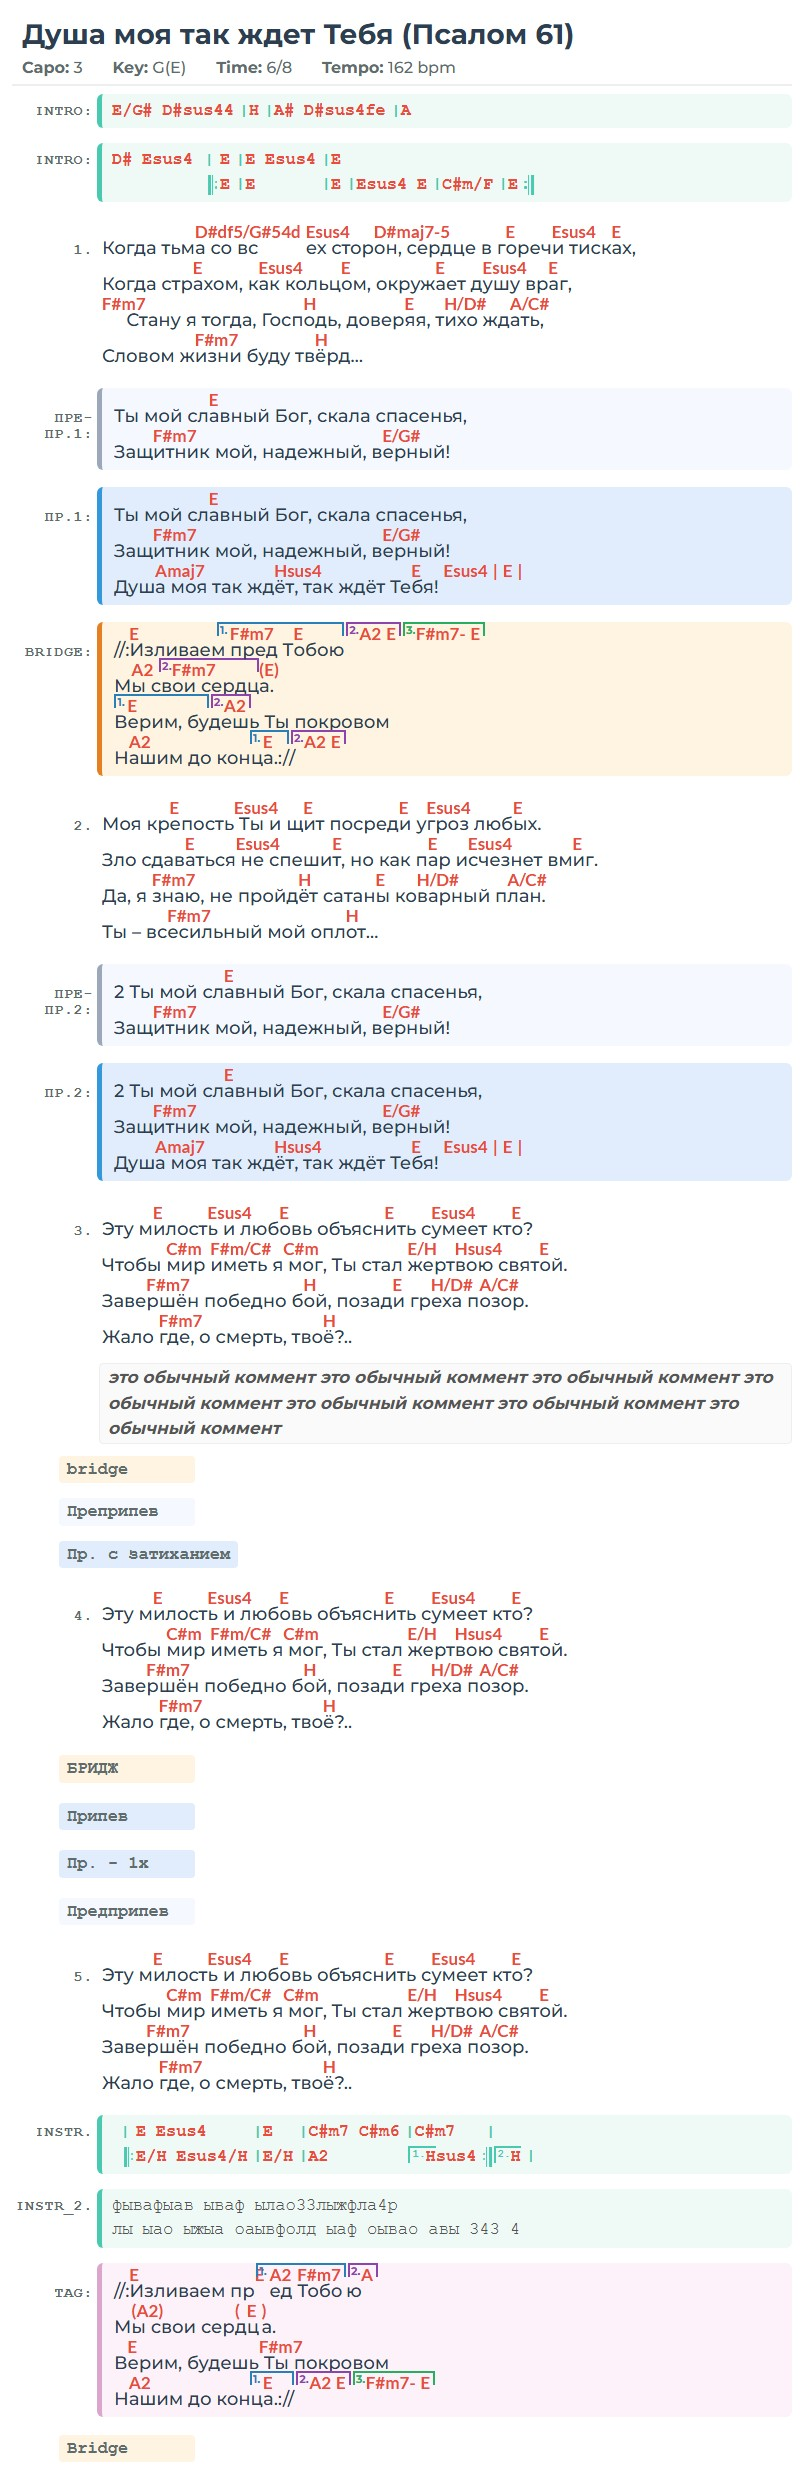
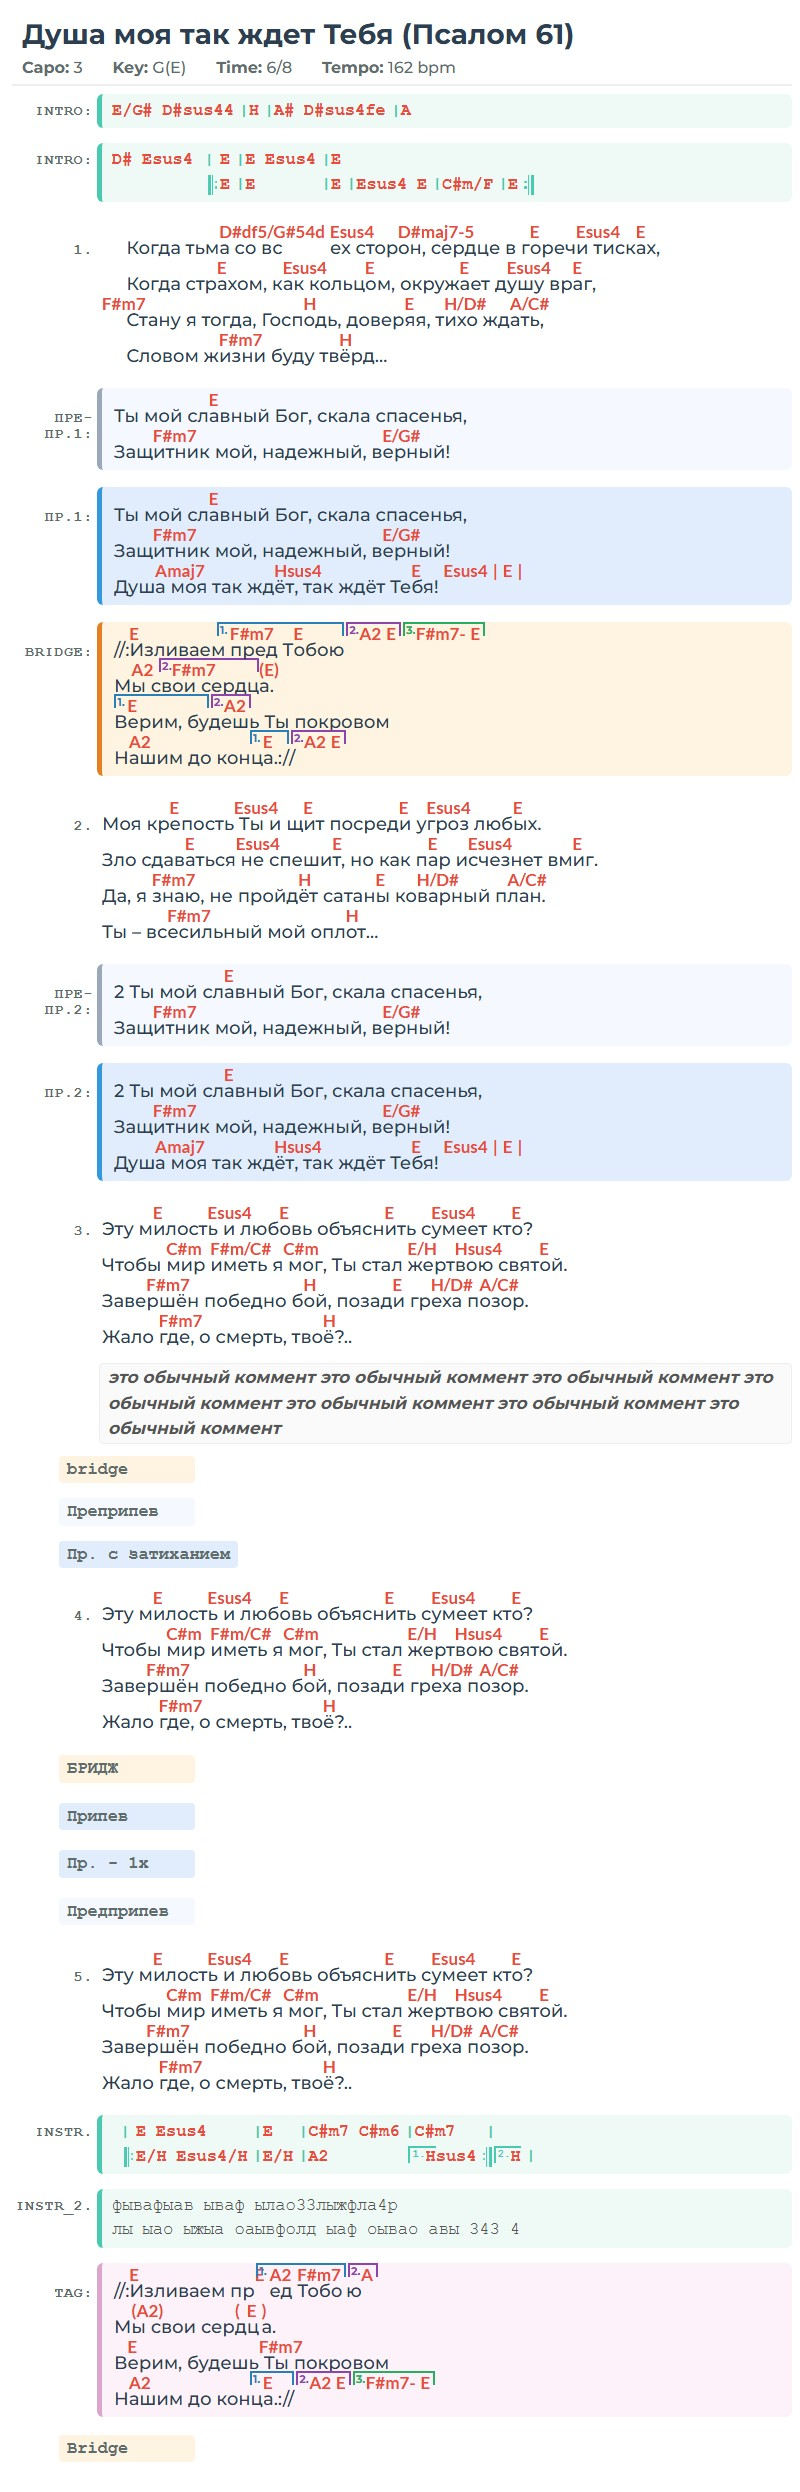
Добавил сохранение отступов вначале (для аккордов из затакта)

Changed region(s): [[0.125, 0.0927, 0.8125, 0.1545]]

diff --git a/output_jpg/Душа моя так ждёт Тебя.chordpro.html b/output_jpg/Душа моя так ждёт Тебя.chordpro.html
@@ -453,7 +453,7 @@
                                 <div class="line ">
                             
                                 
-                                    <span class="chord-wrapper"><span class="lyrics">Когда тьм</span></span>
+                                    <span class="chord-wrapper"><span class="lyrics">     Когда тьм</span></span>
                                 
                             
                                 
@@ -488,7 +488,7 @@
                                 <div class="line ">
                             
                                 
-                                    <span class="chord-wrapper"><span class="lyrics">Когда стр</span></span>
+                                    <span class="chord-wrapper"><span class="lyrics">     Когда стр</span></span>
                                 
                             
                                 
@@ -550,7 +550,7 @@
                                 <div class="line ">
                             
                                 
-                                    <span class="chord-wrapper"><span class="lyrics">Словом ж</span></span>
+                                    <span class="chord-wrapper"><span class="lyrics">     Словом ж</span></span>
                                 
                             
                                 

diff --git a/chordpro/parser.py b/chordpro/parser.py
@@ -14,13 +14,15 @@ class ChordProParser:
 
 
         for line in lines:
-            line = line.strip()
-            if not line:
+            line = line.rstrip()
+            clean_line = line.strip()
+
+            if not clean_line:
                 continue
 
             # Директивы
-            if line.startswith("{") and line.endswith("}"):
-                inner = line[1:-1]
+            if clean_line.startswith("{") and clean_line.endswith("}"):
+                inner = clean_line[1:-1]
                 parts = inner.split(":", 1)
                 key = parts[0].strip().lower()
                 value = parts[1].strip() if len(parts) > 1 else ""
@@ -103,7 +105,7 @@ class ChordProParser:
                 continue
 
             # Комментарии (строки, начинающиеся с #)
-            if line.startswith("#"):
+            if clean_line.startswith("#"):
                 continue
 
             # Директива {comment: ...} обрабатывается в цикле директив выше (ключи 'comment' / 'c').
@@ -116,7 +118,7 @@ class ChordProParser:
                 song.sections.append(current_section)
 
             if current_section.type == "grid":
-                parsed_line = self._parse_grid_line(line)
+                parsed_line = self._parse_grid_line(clean_line)
             else:
                 parsed_line = self._parse_line(line)
 
